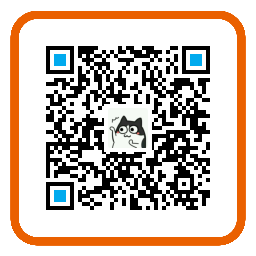
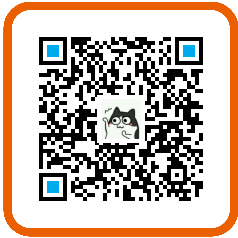
:page_facing_up: 更新支付宝二维码

diff --git a/README.md b/README.md
@@ -110,8 +110,8 @@ Container::get('app')->bind('index')->run()->send();
 捐赠
 ---
 Lsky Pro 的开发和更新等，都是作者在空余时间独立开发，并免费开源使用，如果您认可我的作品，并且觉得对你有所帮助我们愿意接受来自各方面的捐赠😃。  
-![支付宝](./public/static/app/images/demo/alipay.png?t=20191125) 
-![微信](./public/static/app/images/demo/wechat.jpeg?t=20191125)  
+![支付宝](./public/static/app/images/demo/alipay.png?t=201911251121) 
+![微信](./public/static/app/images/demo/wechat.jpeg?t=201911251121)  
 左图支付宝，右图微信  
 
 鸣谢
